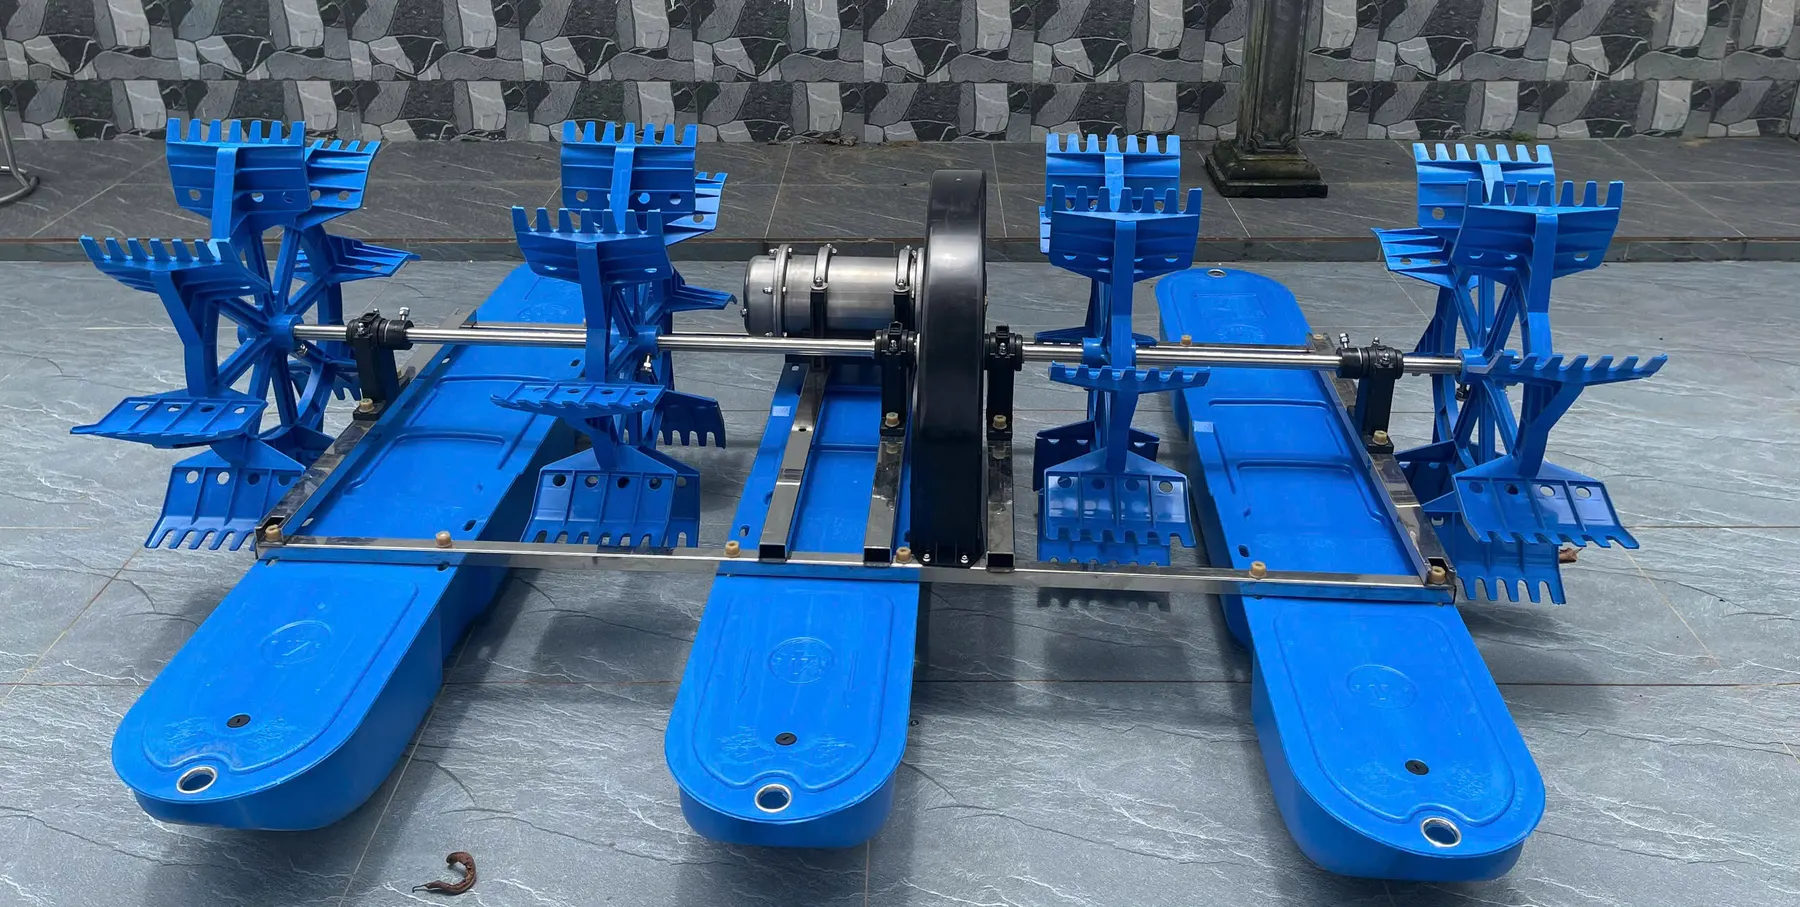
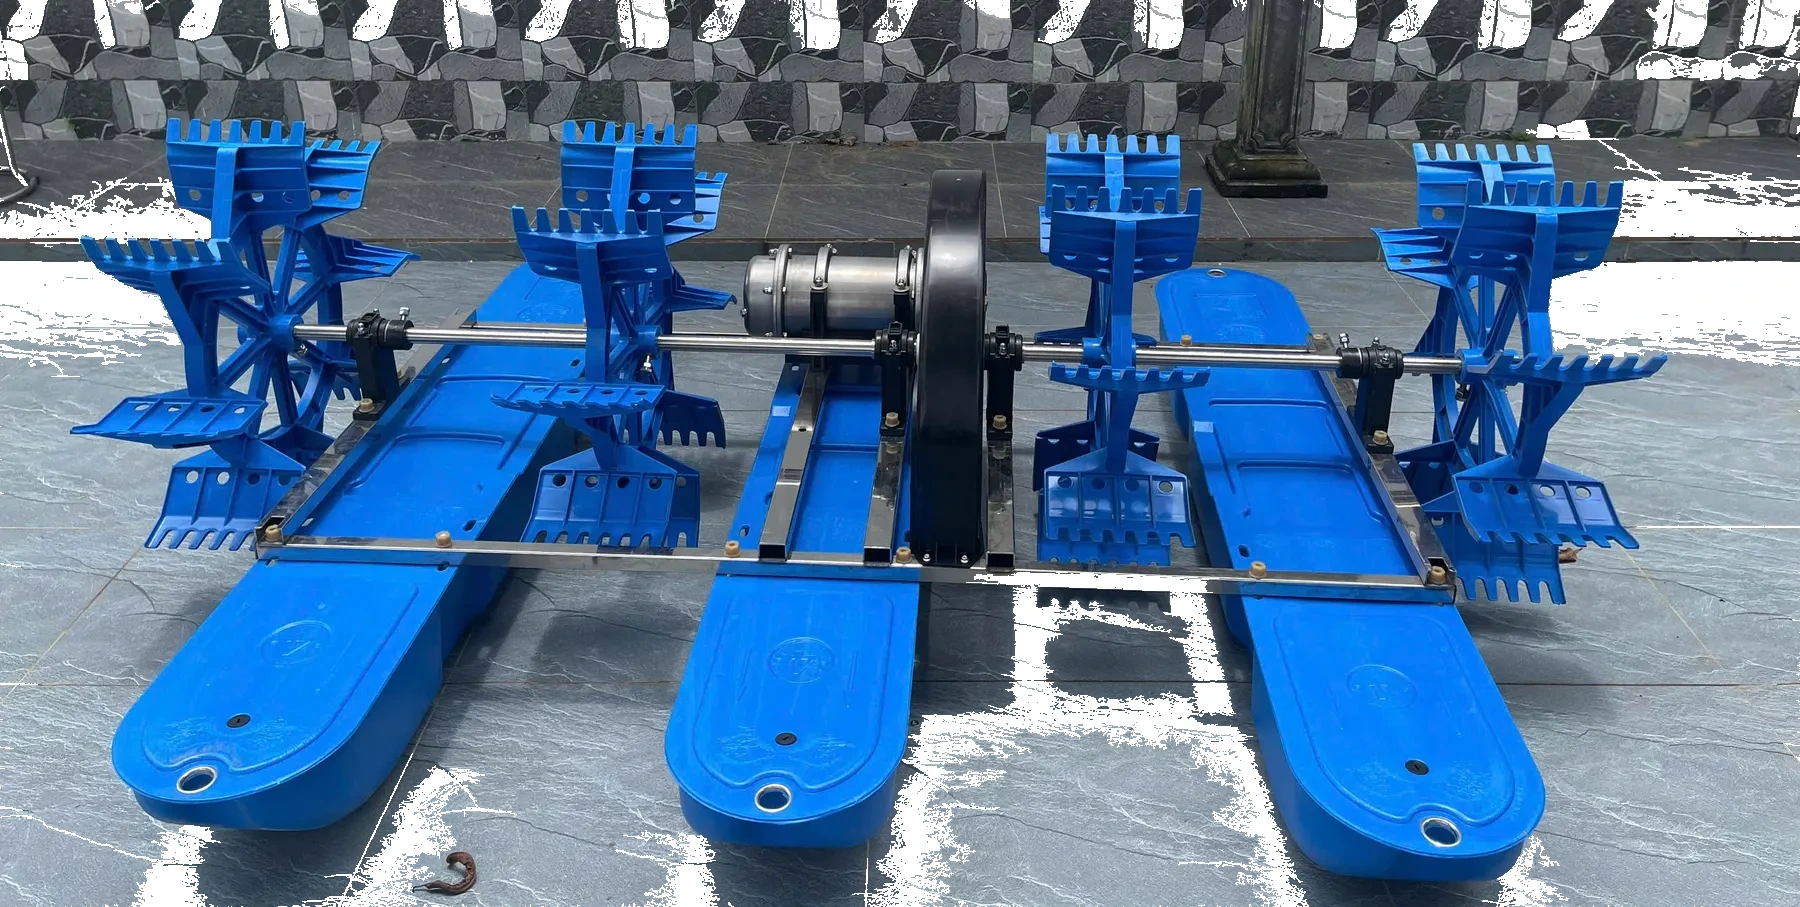
feat: apply clean white-background product cutouts
Map key product cards to cutout assets and update source images to keep product media visually consistent with pure white backgrounds.

diff --git a/lib/site-data.ts b/lib/site-data.ts
@@ -97,7 +97,7 @@ export const productCategories: ProductCategory[] = [
       { name: "Quạt 4 cánh 1.1kW 220V bánh răng", englishName: "DOLIC 4-Blade Open-Gear Paddle Wheel Aerator (1.1 kW, 220V)", model: "YC 1.1", origin: "Trung Quốc - Yimin", specs: "1.1kW - 220V - ≥2.2 kg O2/h - 63.5kg - 190 vòng/phút - IPX8", price: "8.300.000", image: "/assets/products/drive-full/yc4-11s-4-canh-banh-rang.webp", status: "Đang bán", details: `${aeratorPatentDetail} Tuổi thọ động cơ ước tính 3-5 năm.`, usp: aeratorUsp, priority: "Đang bán" },
       { name: "Quạt 2 cánh 0.75kW 220V", englishName: "DOLIC 2-Blade Paddle Wheel Aerator (0.75 kW, 220V)", model: "YC 0.75DZ", origin: "Trung Quốc - Yimin", specs: "0.75kW - 220V - ≥0.9 kg O2/h - 34kg - 190 vòng/phút - IPX8", price: "5.900.000", image: "/assets/products/drive-full/yc-075dz-2-canh.webp", status: "Đang bán", details: `${aeratorPatentDetail} Tuổi thọ động cơ ước tính 3-5 năm.`, usp: aeratorUsp, priority: "Đang bán" },
       { name: "Quạt 2 cánh 0.75kW 380V", englishName: "DOLIC 2-Blade Paddle Wheel Aerator (0.75 kW, 380V)", model: "YC 0.75Z", origin: "Trung Quốc - Yimin", specs: "0.75kW - 380V - ≥0.9 kg O2/h - 34kg - 190 vòng/phút - IPX8", price: "5.900.000", image: "/assets/products/drive-full/yc-075z-2-canh.webp", status: "Đang bán", details: `${aeratorPatentDetail} Tuổi thọ động cơ ước tính 3-5 năm.`, usp: aeratorUsp, priority: "Đang bán" },
-      { name: "Quạt 4 cánh xanh to 1.5kW 380V bánh răng", englishName: "DOLIC 4-Blade Large Green Open-Gear Paddle Wheel Aerator (1.5 kW, 380V)", model: "SC 1.5", origin: "Trung Quốc - Yimin", specs: "1.5kW - 380V - ≥2.2 kg O2/h - 71kg - 107 vòng/phút - IPX8", price: "9.000.000", image: "/assets/products/drive-full/sc-15-4-canh.webp", status: "Mới ra mắt", details: "Vỏ motor inox 304 xỉn, cánh quạt nhựa nylon, phao nhựa HDPE. Cánh quạt lớn giúp dòng chảy mạnh hơn; thiết kế răng lược tạo oxy, phần giữa cánh không có lỗ để tạo dòng chảy mạnh hơn. Tuổi thọ động cơ ước tính 3-5 năm.", usp: aeratorUsp, priority: "Mới ra mắt" },
+      { name: "Quạt 4 cánh xanh to 1.5kW 380V bánh răng", englishName: "DOLIC 4-Blade Large Green Open-Gear Paddle Wheel Aerator (1.5 kW, 380V)", model: "SC 1.5", origin: "Trung Quốc - Yimin", specs: "1.5kW - 380V - ≥2.2 kg O2/h - 71kg - 107 vòng/phút - IPX8", price: "9.000.000", image: "/assets/products/drive-full/sc-15-4-canh-cutout.webp", status: "Mới ra mắt", details: "Vỏ motor inox 304 xỉn, cánh quạt nhựa nylon, phao nhựa HDPE. Cánh quạt lớn giúp dòng chảy mạnh hơn; thiết kế răng lược tạo oxy, phần giữa cánh không có lỗ để tạo dòng chảy mạnh hơn. Tuổi thọ động cơ ước tính 3-5 năm.", usp: aeratorUsp, priority: "Mới ra mắt" },
     ],
   },
   {
@@ -131,7 +131,7 @@ export const productCategories: ProductCategory[] = [
       { name: "Bơm 7.5kW có phao 380V", englishName: "DOLIC Float Switch Water Pump (7.5 kW)", model: "FB 200-7.5", origin: "Trung Quốc - Yimin", specs: "7.5kW - 380V - 380m3/h - cửa xả 200mm - đẩy cao 6m - IPX8", price: "12.000.000", image: "/assets/products/drive-full/fb-200-75-bom-co-phao.webp", status: "Đang bán", details: `${pumpDetail} Cân nặng 58kg. Tuổi thọ động cơ ước tính 3-5 năm.`, usp: pumpUsp, priority: "Đang bán" },
       { name: "Bơm 4kW tiêu chuẩn 380V", englishName: "DOLIC Standard Water Pump (4 kW)", model: "QY200-4-4", origin: "Trung Quốc - Yimin", specs: "4kW - 380V - 200m3/h - cửa xả 152mm - đẩy cao 6m - IPX8", price: "6.900.000", image: "/assets/products/drive-full/qy250-6-4-bom-tieu-chuan.webp", status: "Đang bán", details: `${pumpDetail} Cân nặng 35kg. Tuổi thọ động cơ ước tính 3-5 năm.`, usp: pumpUsp, priority: "Đang bán" },
       { name: "Bơm 4kW biến tần 380V", englishName: "DOLIC VFD Water Pump (4 kW)", model: "QT200-4-4", origin: "Trung Quốc - Yimin", specs: "4kW - 380V - 200m3/h - cửa xả 152mm - đẩy cao 4m - IPX8", price: "9.300.000", image: "/assets/products/drive-full/qt200-4-4-bom-bien-tan.webp", status: "Đang bán", details: `${pumpDetail} Cân nặng 20kg. Tuổi thọ động cơ ước tính 3-5 năm.`, usp: pumpUsp, priority: "Đang bán" },
-      { name: "Bơm 1.5kW 220V", englishName: "DOLIC Standard Water Pump (1.5 kW)", model: "QDX70-8-1.5", origin: "Trung Quốc - Yimin", specs: "1.5kW - 220V - 70m3/h - cửa xả 100mm - 19kg - IPX8", price: "4.200.000", image: "/assets/products/drive-full/qdx70-8-15-bom.webp", status: "Đang bán", details: `${pumpDetail} Cân nặng 19kg. Tuổi thọ động cơ ước tính 3-5 năm.`, usp: pumpUsp, priority: "Đang bán" },
+      { name: "Bơm 1.5kW 220V", englishName: "DOLIC Standard Water Pump (1.5 kW)", model: "QDX70-8-1.5", origin: "Trung Quốc - Yimin", specs: "1.5kW - 220V - 70m3/h - cửa xả 100mm - 19kg - IPX8", price: "4.200.000", image: "/assets/products/drive-full/qdx70-8-15-bom-cutout.webp", status: "Đang bán", details: `${pumpDetail} Cân nặng 19kg. Tuổi thọ động cơ ước tính 3-5 năm.`, usp: pumpUsp, priority: "Đang bán" },
       { name: "Bơm 0.75kW 220V", englishName: "DOLIC Standard Water Pump (0.75 kW)", model: "FB-80-0.75D", origin: "Trung Quốc - Yimin", specs: "0.75kW - 220V - 50m3/h - cửa xả 80mm - đẩy cao 3m - IPX8", price: "2.600.000", image: "/assets/products/drive-full/fb-80-075-bom.webp", status: "Đang bán", details: `${pumpDetail} Cân nặng 15kg. Tuổi thọ động cơ ước tính 3-5 năm.`, usp: pumpUsp, priority: "Đang bán" },
     ],
   },
@@ -157,7 +157,7 @@ export const productCategories: ProductCategory[] = [
     products: [
       { name: "Tam hoa biến tần 1.5kW 220V", englishName: "DOLIC Tam Hoa Inverter Auto Feeder (1.5 kW, 220V)", model: "TY-1.5D", origin: "Trung Quốc - Yimin", specs: "1.5kW - 220V - ≥2.3 kg O2/h - 28kg - 3 chế độ 1.1/0.75/0.55kW - IPX8", price: "6.750.000", image: "/assets/products/drive-full/ty-15d-bien-tan.webp", status: "Đang bán", details: "Motor nam châm vĩnh cửu hiệu suất cao, khung inox 304, phao HDPE. Tuổi thọ động cơ ước tính 3-5 năm. Hiệu suất cao, tiết kiệm điện, bảo hành bảo dưỡng nhanh chóng.", usp: inverterUsp, priority: "Đang bán" },
       { name: "Tam hoa biến tần 2.2kW 380V", englishName: "DOLIC Tam Hoa Inverter Auto Feeder (2.2 kW, 380V)", model: "TY-2.2", origin: "Trung Quốc - Yimin", specs: "2.2kW - 380V - ≥4.0 kg O2/h - 30kg - 3 chế độ 1.6/1.3/0.75kW - IPX8", price: "7.750.000", image: "/assets/products/drive-full/ty-22-bien-tan.webp", status: "Đang bán", details: "Motor nam châm vĩnh cửu hiệu suất cao, khung inox 304, phao HDPE. Tuổi thọ động cơ ước tính 3-5 năm. Hiệu suất cao, tiết kiệm điện, bảo hành bảo dưỡng nhanh chóng.", usp: inverterUsp, priority: "Đang bán" },
-      { name: "Tam hoa cơ 0.75kW 220V", englishName: "DOLIC Tam Hoa Mechanical Auto Feeder (0.75 kW, 220V)", model: "YL-0.75", origin: "Trung Quốc - Yimin", specs: "0.75kW - 220V - ≥1.1 kg O2/h - 42kg - 148 vòng/phút - IPX8", price: "6.000.000", image: "/assets/products/drive-full/tam-hoa-co-075.webp", status: "Đang bán", details: "Motor nam châm vĩnh cửu hiệu suất cao, khung inox 304, phao HDPE. Tuổi thọ động cơ ước tính 3-5 năm. Ưu điểm: hiệu suất cao, nhiệt độ làm việc thấp, lưu lượng nước lớn.", usp: inverterUsp, priority: "Đang bán" },
+      { name: "Tam hoa cơ 0.75kW 220V", englishName: "DOLIC Tam Hoa Mechanical Auto Feeder (0.75 kW, 220V)", model: "YL-0.75", origin: "Trung Quốc - Yimin", specs: "0.75kW - 220V - ≥1.1 kg O2/h - 42kg - 148 vòng/phút - IPX8", price: "6.000.000", image: "/assets/products/drive-full/tam-hoa-co-075-cutout.webp", status: "Đang bán", details: "Motor nam châm vĩnh cửu hiệu suất cao, khung inox 304, phao HDPE. Tuổi thọ động cơ ước tính 3-5 năm. Ưu điểm: hiệu suất cao, nhiệt độ làm việc thấp, lưu lượng nước lớn.", usp: inverterUsp, priority: "Đang bán" },
       { name: "Tam hoa cơ 1.5kW 380V", englishName: "DOLIC Tam Hoa Mechanical Auto Feeder (1.5 kW, 380V)", model: "YL-1.5", origin: "Trung Quốc - Yimin", specs: "1.5kW - 380V - ≥2.3 kg O2/h - 42kg - 138 vòng/phút - IPX8", price: "7.000.000", image: "/assets/products/drive-full/ty-15-bien-tan.webp", status: "Đang bán", details: "Motor nam châm vĩnh cửu hiệu suất cao, khung inox 304, phao HDPE. Tuổi thọ động cơ ước tính 3-5 năm. Hiệu suất cao, tiết kiệm điện, bảo hành bảo dưỡng nhanh chóng.", usp: inverterUsp, priority: "Đang bán" },
     ],
   },
